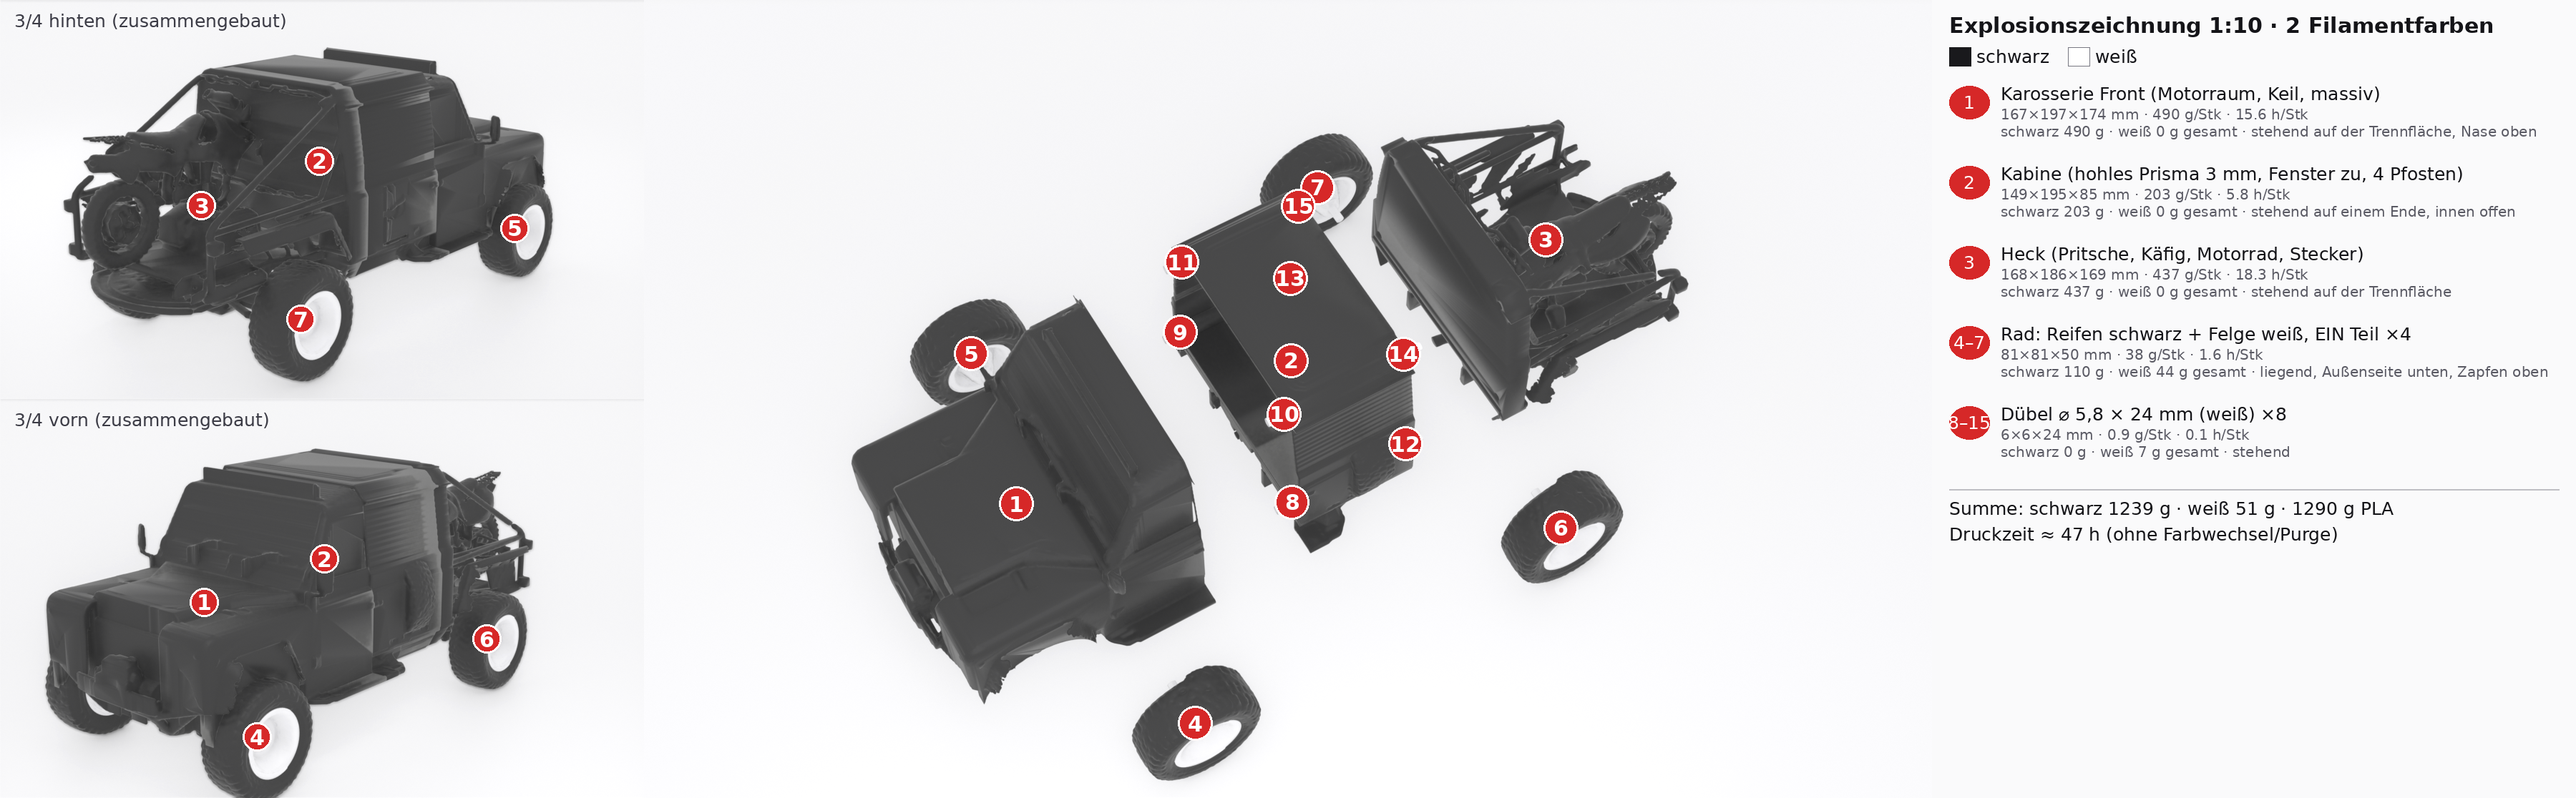
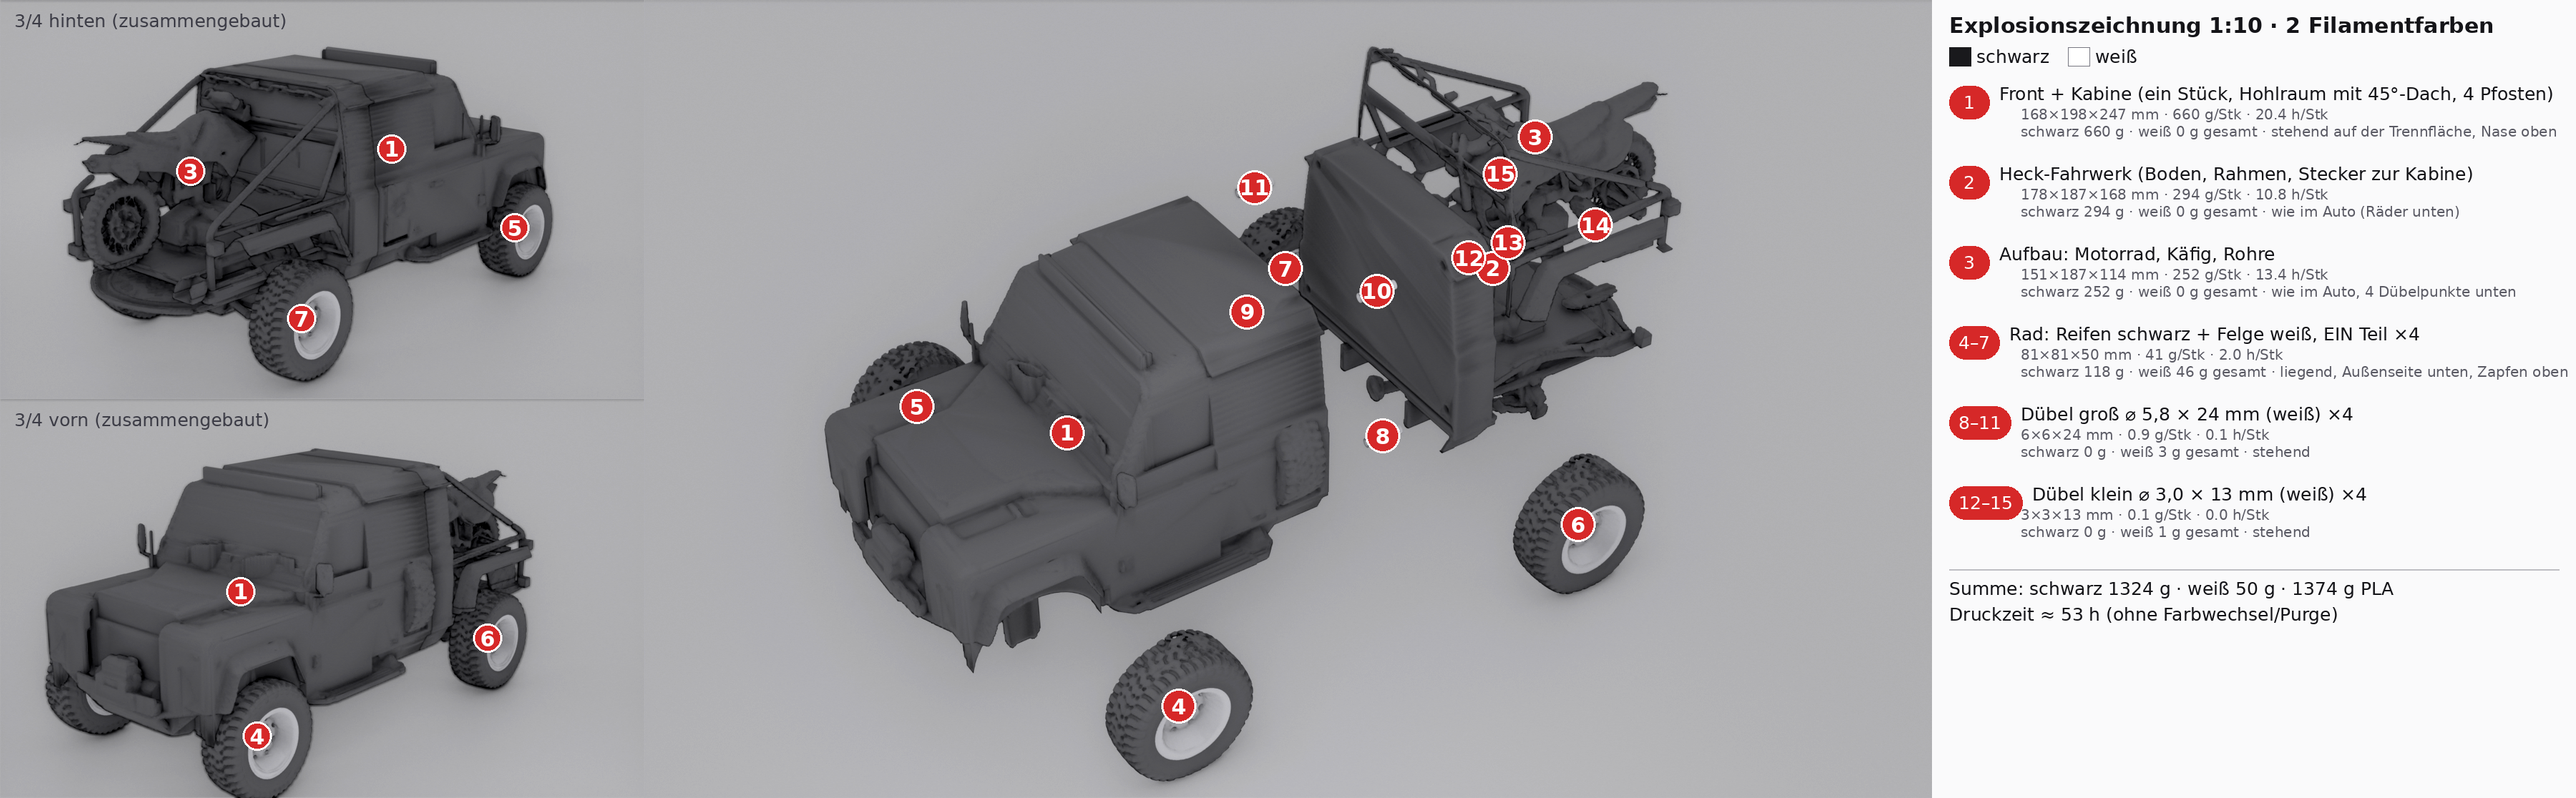
Doku v5: Shading wie erste Explosionszeichnung, 3% Infill, neue Stueckliste, Stuetzen-Doku, README
Claude-Session: https://claude.ai/code/session_01UzVVUUa4BAKRRobez9wAm3

diff --git a/environment_studio/stueckliste3.py b/environment_studio/stueckliste3.py
@@ -1,26 +1,26 @@
 """Beschriftete Explosionszeichnung v3 (zweifarbig) + Stueckliste. python stueckliste3.py <explosion_roh.png> <ausgabe-ordner>
-Werte aus PrusaSlicer-Lauf (Bambu-aehnliches Profil, 2 Waende, 5 % Gyroid, 0,24 mm, organische Stuetzen; Farbwechsel/Purge nicht enthalten)."""
+Werte aus PrusaSlicer-Lauf (Bambu-aehnliches Profil, 2 Waende, 3 % Gyroid, 0,24 mm, organische Stuetzen; Farbwechsel/Purge nicht enthalten)."""
 import sys, os, json, numpy as np
 from PIL import Image, ImageDraw, ImageFont
 roh, out = sys.argv[1:3]; os.makedirs(out, exist_ok=True); lab = json.load(open(roh + '.json'))
 VIEWS = sys.argv[3:5] if len(sys.argv) > 4 else []     # optional: heck34-, front34-Rohbild (zusammengebaut)
 FB = '/usr/share/fonts/truetype/dejavu/DejaVuSans-Bold.ttf'; FR = '/usr/share/fonts/truetype/dejavu/DejaVuSans.ttf'
 f = ImageFont.truetype(FB, 30); f2 = ImageFont.truetype(FR, 25); f3 = ImageFont.truetype(FR, 20)
-TIRE = 100.0/(100.0+39.9)                          # Volumenanteil Reifen (schwarz) am Rad
-RAD_G, RAD_H = 38.3, 1.6
-ROWS = [  # (Nr-Label, Name, Anzahl, Masse mm (Druckausrichtung), g gesamt/Stk, schwarz-Anteil, h/Stk, Ausrichtung, Teile in Zeichnung)
- ('1', 'Karosserie Front (Motorraum, Keil, massiv)', 1, '167×197×174', 489.8, 1.0, 15.6, 'stehend auf der Trennfläche, Nase oben', ['Karosserie_1_Front']),
- ('2', 'Kabine (hohles Prisma 3 mm, Fenster zu, 4 Pfosten)', 1, '149×195×85', 203.2, 1.0, 5.8, 'stehend auf einem Ende, innen offen', ['Karosserie_2_Kabine']),
- ('3', 'Heck (Pritsche, Käfig, Motorrad, Stecker)', 1, '168×186×169', 436.6, 1.0, 18.3, 'stehend auf der Trennfläche', ['Karosserie_3_Heck']),
- ('4–7', 'Rad: Reifen schwarz + Felge weiß, EIN Teil', 4, '81×81×50', RAD_G, TIRE, RAD_H, 'liegend, Außenseite unten, Zapfen oben', ['Rad_VL', 'Rad_VR', 'Rad_HL', 'Rad_HR']),
- ('8–15', 'Dübel ⌀ 5,8 × 24 mm (weiß)', 8, '6×6×24', 0.86, 0.0, 0.14, 'stehend', ['Duebel_%d' % i for i in range(1, 9)]),
+TIRE = 95.3/(95.3+37.3)                          # Volumenanteil Reifen (schwarz) am Rad
+ROWS = [  # (Nr, Name, Anzahl, Masse mm (Druckausrichtung), g/Stk, schwarz-Anteil, h/Stk, Ausrichtung, Teile in Zeichnung)
+ ('1', 'Front + Kabine (ein Stück, Hohlraum mit 45°-Dach, 4 Pfosten)', 1, '168×198×247', 660.4, 1.0, 20.4, 'stehend auf der Trennfläche, Nase oben', ['Karosserie_1_Front_Kabine']),
+ ('2', 'Heck-Fahrwerk (Boden, Rahmen, Stecker zur Kabine)', 1, '178×187×168', 294.2, 1.0, 10.8, 'wie im Auto (Räder unten)', ['Karosserie_2_Heck']),
+ ('3', 'Aufbau: Motorrad, Käfig, Rohre', 1, '151×187×114', 252.0, 1.0, 13.4, 'wie im Auto, 4 Dübelpunkte unten', ['Karosserie_3_Aufbau']),
+ ('4–7', 'Rad: Reifen schwarz + Felge weiß, EIN Teil', 4, '81×81×50', 40.9, TIRE, 2.0, 'liegend, Außenseite unten, Zapfen oben', ['Rad_VL', 'Rad_VR', 'Rad_HL', 'Rad_HR']),
+ ('8–11', 'Dübel groß ⌀ 5,8 × 24 mm (weiß)', 4, '6×6×24', 0.86, 0.0, 0.14, 'stehend', ['Duebel_%d' % i for i in range(1, 5)]),
+ ('12–15', 'Dübel klein ⌀ 3,0 × 13 mm (weiß)', 4, '3×3×13', 0.15, 0.0, 0.03, 'stehend', ['Pin_%d' % i for i in range(1, 5)]),
 ]
 NUM = {}
 for nr, nm, cnt, bb, g, bl, h, o, parts in ROWS:
     for i, p in enumerate(parts): NUM[p] = (nr if len(parts) == 1 else str(int(nr.split('–')[0]) + i))
 def beschriften(path, labels, small=False):
     im = Image.open(path).convert('RGB'); a = np.asarray(im).astype(np.float32)/255
-    a = np.clip((a - 0.02)/(0.97 - 0.02), 0, 1); im = Image.fromarray((a*255).astype(np.uint8)); dr = ImageDraw.Draw(im)
+    a = np.clip((a - 0.50)/(0.96 - 0.50), 0, 1)**1.1; im = Image.fromarray((a*255).astype(np.uint8)); dr = ImageDraw.Draw(im)
     for p, (x, y) in labels.items():
         t = NUM[p]; r = (20 if small else 24) if len(t) < 3 else 30
         dr.ellipse([x-r, y-r, x+r, y+r], fill=(214, 40, 40), outline=(255, 255, 255), width=3)
@@ -40,11 +40,11 @@ ld.rectangle([24, 66, 54, 92], fill=(25, 25, 28)); ld.text((62, 64), 'schwarz', 
 ld.rectangle([190, 66, 220, 92], fill=(255, 255, 255), outline=(120, 120, 130)); ld.text((228, 64), 'weiß', fill=(20, 20, 24), font=f2)
 y = 120; tot_b = tot_w = tot_h = 0
 for nr, nm, cnt, bb, g, bl, h, o, parts in ROWS:
-    ld.ellipse([24, y, 80, y+46], fill=(214, 40, 40)); w = ld.textlength(nr, font=f2); ld.text((52-w/2, y+8), nr, fill=(255, 255, 255), font=f2)
-    ld.text((96, y-4), nm + (' ×%d' % cnt if cnt > 1 else ''), fill=(20, 20, 24), font=f2)
+    w = ld.textlength(nr, font=f2); bw = max(56, w+26); ld.rounded_rectangle([24, y, 24+bw, y+46], radius=23, fill=(214, 40, 40)); ld.text((24+bw/2-w/2, y+8), nr, fill=(255, 255, 255), font=f2)
+    ld.text((24+max(56, ld.textlength(nr, font=f2)+26)+14, y-4), nm + (' ×%d' % cnt if cnt > 1 else ''), fill=(20, 20, 24), font=f2)
     gb, gw = g*bl*cnt, g*(1-bl)*cnt
-    ld.text((96, y+28), '%s mm · %s · %.1f h/Stk' % (bb, ('%.0f g' % g if g >= 10 else '%.1f g' % g) + '/Stk', h), fill=(90, 90, 100), font=f3)
-    ld.text((96, y+52), 'schwarz %.0f g · weiß %.0f g gesamt · %s' % (gb, gw, o), fill=(90, 90, 100), font=f3)
+    ld.text((124, y+28), '%s mm · %s · %.1f h/Stk' % (bb, ('%.0f g' % g if g >= 10 else '%.1f g' % g) + '/Stk', h), fill=(90, 90, 100), font=f3)
+    ld.text((124, y+52), 'schwarz %.0f g · weiß %.0f g gesamt · %s' % (gb, gw, o), fill=(90, 90, 100), font=f3)
     tot_b += gb; tot_w += gw; tot_h += h*cnt; y += 112
 ld.line([24, y+4, LW-24, y+4], fill=(190, 190, 195), width=2)
 ld.text((24, y+16), 'Summe: schwarz %.0f g · weiß %.0f g · %.0f g PLA' % (tot_b, tot_w, tot_b+tot_w), fill=(20, 20, 24), font=f2)

diff --git a/environment_studio/explosion.py b/environment_studio/explosion.py
@@ -12,11 +12,11 @@ POST = [(-74.0, 83.0), (74.0, 83.0), (-64.0, 181.0), (64.0, 181.0)]
 AUF = [(95.0, -10.0), (125.0, -10.0), (182.0, -24.0), (168.0, 55.0)]
 XJ, ZC = 33.0, 78.0
 WH = {'Rad_VL': (-159.0, -1), 'Rad_VR': (-159.0, 1), 'Rad_HL': (116.0, -1), 'Rad_HR': (116.0, 1)}
-OFF = {'Karosserie_1_Front_Kabine': (-45, 0, 0), 'Karosserie_2_Heck': (45, 0, 0), 'Karosserie_3_Aufbau': (45, 0, 95)}
+OFF = {'Karosserie_1_Front_Kabine': (-45, 0, 0), 'Karosserie_2_Heck': (45, 0, 0), 'Karosserie_3_Aufbau': (55, 0, 60)}
 VIEW = os.environ.get('VIEW', 'explosion')       # explosion | front34 | heck34
 ASM = VIEW != 'explosion'
 if ASM: OFF = {k: (0, 0, 0) for k in OFF}
-SCHWARZ = float(os.environ.get('SCHWARZ', '0.10'))     # mattes Schwarzgrau
+SCHWARZ = float(os.environ.get('SCHWARZ', '0.55'))     # schwarzes Filament als Mittelgrau (Shading wie in der ersten Explosionszeichnung)
 objs = {}
 def load(path, name):
     bpy.ops.wm.stl_import(filepath=path); o = bpy.context.object
@@ -25,13 +25,12 @@ def load(path, name):
     bpy.ops.object.shade_smooth(); o.name = name; return o
 def mat(o, g, name):
     m = bpy.data.materials.new(name); m.use_nodes = True; b = m.node_tree.nodes['Principled BSDF']
-    b.inputs['Base Color'].default_value = (g, g, g*1.02, 1); b.inputs['Roughness'].default_value = 1.0
-    b.inputs['Specular IOR Level'].default_value = 0.0; o.data.materials.append(m)
+    b.inputs['Base Color'].default_value = (g, g, g*1.02, 1); b.inputs['Roughness'].default_value = 0.55; o.data.materials.append(m)
 for n in ('Karosserie_1_Front_Kabine', 'Karosserie_2_Heck', 'Karosserie_3_Aufbau'):
     o = load(os.path.join(d, n + '.stl'), n); o.location = OFF[n]; mat(o, SCHWARZ, n); objs[n] = o
 for n, (cx, sg) in WH.items():
     parts = []
-    for f, g in (('Rad_Reifen_schwarz', SCHWARZ), ('Rad_Felge_weiss', 0.85)):
+    for f, g in (('Rad_Reifen_schwarz', SCHWARZ), ('Rad_Felge_weiss', 0.95)):
         o = load(os.path.join(d, f + '.stl'), n + '_' + f); mat(o, g, n + f)
         if sg > 0: o.rotation_euler = (0, 0, math.pi)
         o.location = (cx, (0 if ASM else (-75 if sg < 0 else 75)), 40.0 if ASM else 35.0); parts.append(o)
@@ -40,18 +39,18 @@ if not ASM:
     for i in range(4):
         y, z = POST[i]
         bpy.ops.mesh.primitive_cylinder_add(radius=2.9, depth=24, location=(XJ, y, z), rotation=(0, math.pi/2, 0), vertices=24); o = bpy.context.object
-        o.name = 'Duebel_%d' % (i+1); mat(o, 0.85, o.name); objs[o.name] = o
+        o.name = 'Duebel_%d' % (i+1); mat(o, 0.95, o.name); objs[o.name] = o
         x, y2 = AUF[i]
-        bpy.ops.mesh.primitive_cylinder_add(radius=1.5, depth=13, location=(x + 45, y2, ZC + 95 - 6), vertices=16); o = bpy.context.object
-        o.name = 'Pin_%d' % (i+1); mat(o, 0.85, o.name); objs[o.name] = o
+        bpy.ops.mesh.primitive_cylinder_add(radius=1.5, depth=13, location=(x + 45, y2, ZC + 60 - 6), vertices=16); o = bpy.context.object
+        o.name = 'Pin_%d' % (i+1); mat(o, 0.95, o.name); objs[o.name] = o
 # Boden-Schatten
 bpy.ops.mesh.primitive_plane_add(size=40000, location=(0, 0, -0.5)); fl = bpy.context.object
 fm = bpy.data.materials.new('fl'); fm.use_nodes = True; fm.node_tree.nodes['Principled BSDF'].inputs['Base Color'].default_value = (0.93, 0.93, 0.94, 1); fl.data.materials.append(fm)
-w = bpy.data.worlds.new('w'); sc.world = w; w.use_nodes = True; w.node_tree.nodes['Background'].inputs['Color'].default_value = (0.95, 0.95, 0.96, 1); w.node_tree.nodes['Background'].inputs['Strength'].default_value = 1.0
-ld = bpy.data.lights.new('k', 'AREA'); ld.energy = 9e5; ld.size = 600; lo = bpy.data.objects.new('k', ld); sc.collection.objects.link(lo); lo.location = (-250, -350, 600); lo.rotation_euler = (math.radians(40), 0, math.radians(-35))
+w = bpy.data.worlds.new('w'); sc.world = w; w.use_nodes = True; w.node_tree.nodes['Background'].inputs['Color'].default_value = (0.95, 0.95, 0.96, 1); w.node_tree.nodes['Background'].inputs['Strength'].default_value = 0.75
+ld = bpy.data.lights.new('k', 'AREA'); ld.energy = 6e5; ld.size = 600; lo = bpy.data.objects.new('k', ld); sc.collection.objects.link(lo); lo.location = (-250, -350, 600); lo.rotation_euler = (math.radians(40), 0, math.radians(-35))
 cd = bpy.data.cameras.new('c'); cd.lens = 70 if not ASM else 62; cd.sensor_width = 36; cd.clip_start = 10; cd.clip_end = 100000
 co = bpy.data.objects.new('c', cd); sc.collection.objects.link(co); sc.camera = co
-co.location = {'explosion': (-420, -720, 1500), 'front34': (-640, -560, 330), 'heck34': (640, 560, 330)}[VIEW]; tg = bpy.data.objects.new('t', None); sc.collection.objects.link(tg); tg.location = (0, 0, 70 if not ASM else 85)
+co.location = {'explosion': (-640, -1000, 1000), 'front34': (-640, -560, 330), 'heck34': (640, 560, 330)}[VIEW]; tg = bpy.data.objects.new('t', None); sc.collection.objects.link(tg); tg.location = ((15 if not ASM else 0), 0, 70 if not ASM else 85)
 tr = co.constraints.new('TRACK_TO'); tr.target = tg; tr.track_axis = 'TRACK_NEGATIVE_Z'; tr.up_axis = 'UP_Y'
 sc.render.engine = 'BLENDER_EEVEE'; sc.eevee.taa_render_samples = 48
 try: sc.eevee.use_raytracing = True

diff --git a/environment_studio/doku_stuetzen.py b/environment_studio/doku_stuetzen.py
@@ -4,24 +4,24 @@ from PIL import Image, ImageDraw, ImageFont
 d, out = sys.argv[1:3]
 FB = '/usr/share/fonts/truetype/dejavu/DejaVuSans-Bold.ttf'; FR = '/usr/share/fonts/truetype/dejavu/DejaVuSans.ttf'
 f = ImageFont.truetype(FB, 34); f2 = ImageFont.truetype(FR, 24); f3 = ImageFont.truetype(FR, 21)
-S = {n: json.load(open(f'{d}/{n}_stats.json')) for n in ('front', 'kabine', 'heck', 'rad')}
-NAMES = {'front': 'Front', 'kabine': 'Kabine', 'heck': 'Heck', 'rad': 'Rad (1 Stück)'}
+S = {n: json.load(open(f'{d}/{n}_stats.json')) for n in ('front6', 'heck6', 'aufbau6', 'rad6')}
+NAMES = {'front6': 'Front + Kabine', 'heck6': 'Heck-Fahrwerk', 'aufbau6': 'Aufbau (Motorrad)', 'rad6': 'Rad (1 Stück)'}
 def share(n, k): return S[n]['typen'].get(k, {}).get('prozent', 0.0)
 W = 2800; pad = 40
-a = Image.open(f'{d}/heck_schnitt.png').convert('RGB'); b = Image.open(f'{d}/front_schichten.png').convert('RGB')
+a = Image.open(f'{d}/aufbau6_schnitt.png').convert('RGB'); b = Image.open(f'{d}/front6_schichten.png').convert('RGB')
 a.thumbnail((W-2*pad, 1300)); b.thumbnail((W-2*pad, 800))
 tab_h = 330
 H = pad + 60 + a.height + pad + 60 + b.height + pad + 60 + tab_h + pad
 im = Image.new('RGB', (W, H), (16, 17, 20)); dr = ImageDraw.Draw(im); y = pad
-dr.text((pad, y), 'Seitenschnitt durch den gesliceten Druck: Heck (Schnittebene y = 128 mm)', fill=(235, 235, 240), font=f); y += 60
+dr.text((pad, y), 'Seitenschnitt durch den gesliceten Druck: Aufbau mit Motorrad (Schnittebene y = 128 mm)', fill=(235, 235, 240), font=f); y += 60
 im.paste(a, ((W-a.width)//2, y)); y += a.height + pad
-dr.text((pad, y), 'Schichtansichten der Front (25 %, 55 %, 85 % der Bauhöhe): rote Inseln = Stützen, blau = Gyroid-Infill, violett = Brücken', fill=(235, 235, 240), font=f); y += 60
+dr.text((pad, y), 'Schichtansichten Front + Kabine (25 %, 55 %, 85 % der Bauhöhe): rote Inseln = Stützen, blau = Gyroid-Infill, violett = Brücken', fill=(235, 235, 240), font=f); y += 60
 im.paste(b, ((W-b.width)//2, y)); y += b.height + pad
-dr.text((pad, y), 'Materialanteile nach Strukturtyp (Volumen, PrusaSlicer-Lauf, 2 Wände, 5 % Gyroid, 0,24 mm, organische Stützen)', fill=(235, 235, 240), font=f); y += 70
+dr.text((pad, y), 'Materialanteile nach Strukturtyp (Volumen, PrusaSlicer-Lauf, 2 Wände, 3 % Gyroid, 0,24 mm, organische Stützen)', fill=(235, 235, 240), font=f); y += 70
 cols = ['Teil', 'Wände', 'Infill', 'Vollfläche/Deckel', 'Brücken', 'Stützen (+ Kontaktschicht)', 'Gesamt cm³']; xs = [pad, 330, 560, 790, 1130, 1380, 1900]
 for c, x in zip(cols, xs): dr.text((x, y), c, fill=(150, 160, 175), font=f3)
 y += 40
-for n in ('front', 'kabine', 'heck', 'rad'):
+for n in ('front6', 'heck6', 'aufbau6', 'rad6'):
     row = [NAMES[n], '%.0f %%' % (share(n, 'Perimeter') + share(n, 'External perimeter') + share(n, 'Overhang perimeter')), '%.0f %%' % share(n, 'Internal infill'),
            '%.0f %%' % (share(n, 'Solid infill') + share(n, 'Top solid infill')), '%.1f %%' % share(n, 'Bridge infill'),
            '%.1f %%' % (share(n, 'Support material') + share(n, 'Support material interface')), '%.0f' % S[n]['gesamt_cm3']]

diff --git a/environment_studio/slice_v2.py b/environment_studio/slice_v2.py
@@ -28,7 +28,7 @@ JOBS = {  # name: (dateien, Ausrichtung)
  'Aufbau_natuerlich': (['Karosserie_3_Aufbau'], np.eye(4)),
  'Duebel_klein': (['Duebel_klein'], R(Y, -90)),
  'Rad_zweifarbig': (['Rad_Reifen_schwarz', 'Rad_Felge_weiss'], R(X, 90)),
- 'Duebel': (['Duebel'], R(Y, -90)),
+ 'Duebel': (['Duebel_gross'], R(Y, -90)),
 }
 res = {}
 for job, (files, T) in JOBS.items():

diff --git a/environment_studio/README_STL.md b/environment_studio/README_STL.md
@@ -9,14 +9,17 @@ Pipeline (alle Skripte in diesem Ordner, Reihenfolge):
 | C | `stl_c_pruefung.py` | Schicht-für-Schicht-Raster (0,4 mm): Dünnstellen < 0,8 mm, Filament, Zeit |
 | – | `explosion.py`, `stueckliste.py` | Explosionszeichnung (grau, nummeriert) und Stückliste |
 
-## Teile (siehe `ergebnis/stueckliste.md`, `ergebnis/explosion_teile.png`)
-- 2 Karosseriehälften, getrennt bei x = −8 mm (Spalt 0,3 mm), verbunden mit 4 losen Dübeln ⌀ 5,8 × 24 mm in Bohrungen ⌀ 6,4 mm (Bosse an den Innenwänden/Dach der Kabine).
-- 4 Räder, liegend gedruckt (Außenseite unten, Zapfen ⌀ 6,0 oben); Bohrung in der Achse ⌀ 6,4 mm → Räder drehen frei.
-- 2 Spiegel (Arm + Pfosten ⌀ 3,0 mm in ⌀ 3,4-mm-Bohrung in der Karosseriewand), 1 Reserverad (2 Zapfen ⌀ 4,0 mm).
-- Alle Teile passen auf ein 256 × 256 × 256 mm Druckbett (X1/P1/A1); die hintere Hälfte ist 222 mm lang und steht auf der Trennfläche.
+## Teile (Stand v5, siehe `ergebnis/stueckliste_v3.md`, `ergebnis/explosion_zweifarbig.png`)
+- **Front + Kabine** (ein Stück, 168 × 198 × 247 mm): Motorraum und Keil unter der Scheibe massiv, Kabine hohl (3 mm Wand, Seitenfenster geschlossen) mit 45°-Dach, 4 Pfosten für die Dübel zum Heck.
+- **Heck-Fahrwerk** (Boden, Rahmen, Stecker zur Kabine) und **Aufbau** (Motorrad, Käfig, Rohre) mit 4 kleinen Dübeln.
+- **Rad** (4×, zweifarbig: Reifen schwarz, Felge weiß, ein Teil): Zapfen ⌀ 6,0 mm in ⌀ 6,4-mm-Bohrung (frei drehend, nicht gesichert).
+- 4 große Dübel ⌀ 5,8 × 24 mm und 4 kleine ⌀ 3,0 × 13 mm.
+- Motorraum bewusst nicht hohl: bei 3 % Infill kosten die zusätzlichen Wände des Hohlraums mehr, als der gesparte Infill bringt.
+
+## Skripte der letzten Stufen
+`stl_a2_vereinfachen.py` (Hülle, Kabinen-Hohlraum), `stl_b4_teile.py` (Aufteilung, Bohrungen, Räder aus der Original-Hülle), `slice_v2.py` (Slicing-Varianten), `gcode_viz.py` + `doku_stuetzen.py` (Stützen-Doku), `explosion.py` + `stueckliste3.py` (Zeichnung, Stückliste).
 
 ## Grenzen (ehrlich)
-- Mit Bambu Studio nicht geslict (hier nicht verfügbar); Filament/Zeit sind Schätzungen (Annahmen im Kopf von `stl_c_pruefung.py`, ±30 %), Stützmaterial ist nicht enthalten.
-- Das Meshy-Mesh ist keine Konstruktion: Wände sind teils nur ca. 2,5 mm (Kabine), Details unter ca. 0,6 mm (Wischer, Antenne) sind durch das Voxel-Remesh weg oder dünn.
-- Die Spiegel- und Reserveradbohrungen liegen zu 83–91 % im Material (Rest ragt in Hohlraum): Zapfen halten, sind aber mit Kleber sicherer.
-- Lose Einzelteile im Hohlraum der hinteren Hälfte (z. B. 0,5 cm³) wurden verworfen.
+- Mit PrusaSlicer gesliced (Bambu-ähnliches Profil), nicht mit Bambu Studio; Werte ±30 %. Farbwechsel/Purge nicht enthalten.
+- Der Aufbau (Motorrad) besteht zu rund 43 % aus Stützmaterial, das Heck-Fahrwerk zu rund 30 %.
+- Front + Kabine steht 247 mm hoch (Bambu-Studio-Standard 250 mm).

diff --git a/environment_studio/ergebnis/stueckliste_v3.md b/environment_studio/ergebnis/stueckliste_v3.md
@@ -1,8 +1,9 @@
 | Nr | Teil | Anz. | Maße (mm) | schwarz g | weiß g | Zeit h | Ausrichtung |
 |---|---|---|---|---|---|---|---|
-| 1 | Karosserie Front (Motorraum, Keil, massiv) | 1 | 167×197×174 | 490 | 0 | 15.6 | stehend auf der Trennfläche, Nase oben |
-| 2 | Kabine (hohles Prisma 3 mm, Fenster zu, 4 Pfosten) | 1 | 149×195×85 | 203 | 0 | 5.8 | stehend auf einem Ende, innen offen |
-| 3 | Heck (Pritsche, Käfig, Motorrad, Stecker) | 1 | 168×186×169 | 437 | 0 | 18.3 | stehend auf der Trennfläche |
-| 4–7 | Rad: Reifen schwarz + Felge weiß, EIN Teil | 4 | 81×81×50 | 110 | 44 | 6.4 | liegend, Außenseite unten, Zapfen oben |
-| 8–15 | Dübel ⌀ 5,8 × 24 mm (weiß) | 8 | 6×6×24 | 0 | 7 | 1.1 | stehend |
-| | **Summe** | | | **1239** | **51** | **47** | |
+| 1 | Front + Kabine (ein Stück, Hohlraum mit 45°-Dach, 4 Pfosten) | 1 | 168×198×247 | 660 | 0 | 20.4 | stehend auf der Trennfläche, Nase oben |
+| 2 | Heck-Fahrwerk (Boden, Rahmen, Stecker zur Kabine) | 1 | 178×187×168 | 294 | 0 | 10.8 | wie im Auto (Räder unten) |
+| 3 | Aufbau: Motorrad, Käfig, Rohre | 1 | 151×187×114 | 252 | 0 | 13.4 | wie im Auto, 4 Dübelpunkte unten |
+| 4–7 | Rad: Reifen schwarz + Felge weiß, EIN Teil | 4 | 81×81×50 | 118 | 46 | 8.0 | liegend, Außenseite unten, Zapfen oben |
+| 8–11 | Dübel groß ⌀ 5,8 × 24 mm (weiß) | 4 | 6×6×24 | 0 | 3 | 0.6 | stehend |
+| 12–15 | Dübel klein ⌀ 3,0 × 13 mm (weiß) | 4 | 3×3×13 | 0 | 1 | 0.1 | stehend |
+| | **Summe** | | | **1324** | **50** | **53** | |
